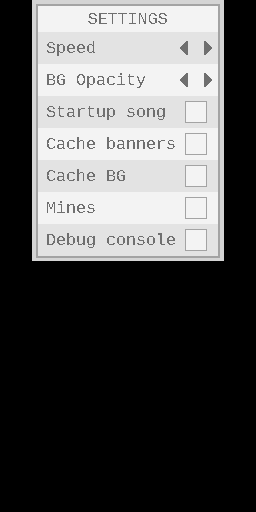
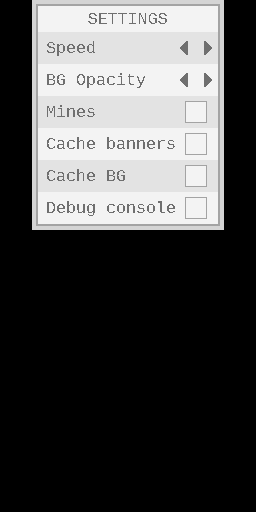
remove startup song

diff --git a/source/config.cpp b/source/config.cpp
@@ -11,7 +11,7 @@
 
 using namespace std;
 
-enum SETTING {SPEED, BGOPACITY, STARTUPSONG, CACHEBANNERS, CACHEBG, MINES, DEBUG};
+enum SETTING {SPEED, BGOPACITY, MINES, CACHEBANNERS, CACHEBG, DEBUG};
 enum STATE {IDLE, FADEIN, FADEOUT, NEXT, PREV};
 
 //todo: reduce verbosity
@@ -183,8 +183,8 @@ void Config::updateSprites() {
 	oamSet(&oamSub, valueSprites[0], 188, -y + 40 , 0, 4, SpriteSize_16x16, SpriteColorFormat_16Color, numberGfx[settings.speed], 0, false, false, false, false, false);
 	//opacity
 	oamSet(&oamSub, valueSprites[1], 188, -y + 40 + 32, 0, 4, SpriteSize_16x16, SpriteColorFormat_16Color, numberGfx[settings.opacity], 0, false, false, false, false, false);
-	//startup song
-	if (settings.intro) {
+	//mines
+	if (settings.mines) { //fixme
 		oamSet(&oamSub, valueSprites[2], 188, -y + 40 + 32 * 2, 0, 1, SpriteSize_16x16, SpriteColorFormat_16Color, markGfx, 0, false, false, false, false, false);
 	} else {
 		oamClearSprite(&oamSub, valueSprites[2]);
@@ -201,17 +201,11 @@ void Config::updateSprites() {
 	} else {
 		oamClearSprite(&oamSub, valueSprites[4]);
 	}
-	//mines
-	if (settings.mines && (-y + 40 + 32 * 5) < 192) { //fixme
+	//debug console
+	if (settings.debug && (-y + 40 + 32 * 5) < 192) { //fixme
 		oamSet(&oamSub, valueSprites[5], 188, -y + 40 + 32 * 5, 0, 1, SpriteSize_16x16, SpriteColorFormat_16Color, markGfx, 0, false, false, false, false, false);
 	} else {
 		oamClearSprite(&oamSub, valueSprites[5]);
-	}
-	//debug console
-	if (settings.debug && (-y + 40 + 32 * 5) < 192) { //fixme
-		oamSet(&oamSub, valueSprites[6], 188, -y + 40 + 32 * 6, 0, 1, SpriteSize_16x16, SpriteColorFormat_16Color, markGfx, 0, false, false, false, false, false);
-	} else {
-		oamClearSprite(&oamSub, valueSprites[6]);
 	}
 }
 
@@ -223,9 +217,6 @@ void Config::hideSprites() {
 
 void Config::toggle() {
 	switch (cursor) {
-		case STARTUPSONG:
-			settings.intro = !settings.intro;
-			break;
 		case CACHEBANNERS:
 			settings.cache = !settings.cache;
 			break;
@@ -276,7 +267,6 @@ void ConfigLoad() {
 		cout << "\nLoading config";
 		fread(&settings.speed, 4, 1, file);
 		fread(&settings.opacity, 4, 1, file);
-		fread(&settings.intro, 1, 1, file);
 		fread(&settings.cache, 1, 1, file);
 		fread(&settings.cache_bg, 1, 1, file);
 		fread(&settings.debug, 1, 1, file);
@@ -295,7 +285,6 @@ void ConfigSave() {
 		cout << "\nSaving config";
 		fwrite(&settings.speed, 4, 1, file);
 		fwrite(&settings.opacity, 4, 1, file);
-		fwrite(&settings.intro, 1, 1, file);
 		fwrite(&settings.cache, 1, 1, file);
 		fwrite(&settings.cache_bg, 1, 1, file);
 		fwrite(&settings.debug, 1, 1, file);

diff --git a/source/notice.cpp b/source/notice.cpp
@@ -48,15 +48,12 @@ Notice::Notice() {
 	if (!shared_buffer) {
 		shared_buffer = new Buffer();
 		buffer = shared_buffer;
-		buffer->setRandom();
+		//buffer->setRandom();
 		buffer->fill("");
 		songpath = buffer->items[BUFFERSIZE / 2].path;
 		simpath = buffer->items[BUFFERSIZE / 2].smpath;
 		songdata song;
 		parseSimFile(&song, simpath);
-		if (settings.intro) {
-			loadAudio(songpath + "/" + song.music);
-		}
 		for (int i = 0; i < 20; i++) {
 			swiWaitForVBlank();
 		}
@@ -122,9 +119,6 @@ void Notice::fadeNoticeUpdate() {
 }
 
 void Notice::transitionMenu() {
-	if (settings.intro) {
-		playAudio();
-	}
 	transition = true;
 	transitionFrame = 30;
 	REG_BLDCNT_SUB = BLEND_ALPHA | BLEND_SRC_BG1 | BLEND_DST_BG2;

diff --git a/include/config.h b/include/config.h
@@ -1,12 +1,11 @@
 #ifndef CONFIG
 #define CONFIG
 #include <nds.h>
-#define CONFIGCOUNT 7
+#define CONFIGCOUNT 6
 #define CONFIGPATH "/dds/settings"
 struct settings_t {
 	int speed = 4;
 	int opacity = 6;
-	bool intro = true;
 	bool cache = true;
 	bool cache_bg = false;
 	bool mines = false;
@@ -18,7 +17,7 @@ private:
 	int y_f;
 	int y_dest;
 	const int y_min = -32;
-	const int y_max = 101;
+	const int y_max = 69;
 	int height;
 	int sub_bg;
 	int cursor_bg;
